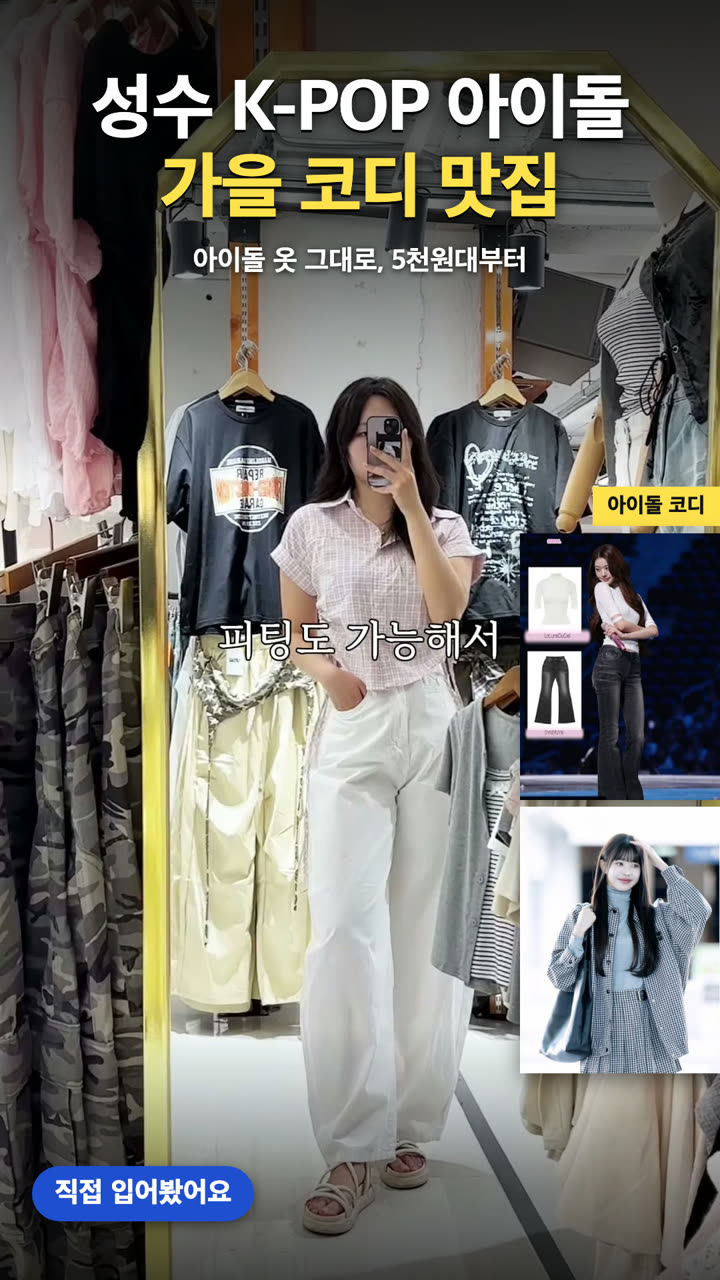
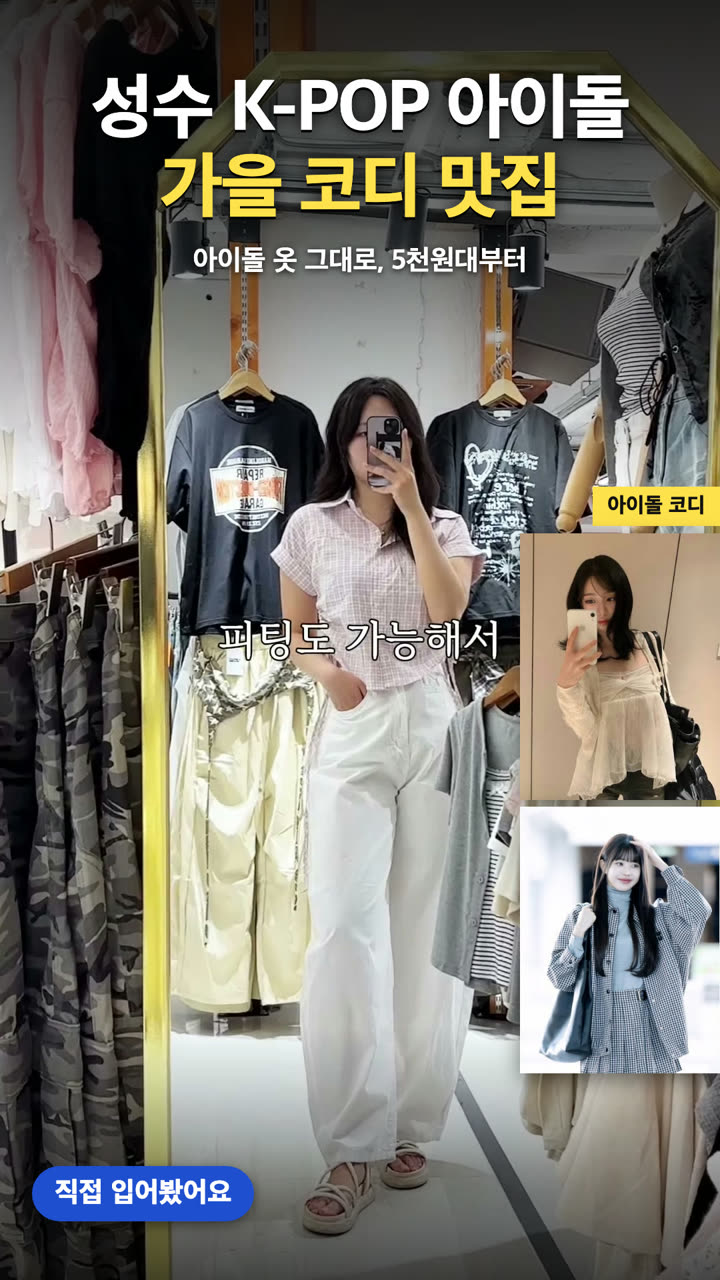
엠플레이그라운드 가이드: FW 썸네일 연예인 카드를 레이스 톱 거울 셀카로 교체

Changed region(s): [[0.7028, 0.4062, 1.0, 0.625]]

diff --git a/mplayground-guide/index.html b/mplayground-guide/index.html
@@ -202,8 +202,8 @@ li{margin-bottom:6px}
   <div class="thumbs">
     <figure class="vb"><img src="thumbs/thumb_1.jpg" alt="썸네일 예시 1" loading="lazy"><figcaption>1 · 메인 본인 착샷 + 연예인 사진</figcaption></figure>
     <figure class="vb"><img src="thumbs/thumb_2.jpg" alt="썸네일 예시 2" loading="lazy"><figcaption>2 · 메인 마네킹 코디 + 연예인 사진</figcaption></figure>
-    <figure class="vf"><img src="thumbs/thumb_1_fw.jpg" alt="FW 썸네일 예시 1" loading="lazy"><figcaption>1 · 메인 본인 착샷 + 연예인 사진 (예시 1·2)</figcaption></figure>
-    <figure class="vf"><img src="thumbs/thumb_2_fw.jpg" alt="FW 썸네일 예시 2" loading="lazy"><figcaption>2 · 메인 마네킹 코디 + 연예인 사진 (예시 1·2)</figcaption></figure>
+    <figure class="vf"><img src="thumbs/thumb_1_fw.jpg" alt="FW 썸네일 예시 1" loading="lazy"><figcaption>1 · 메인 본인 착샷 + 연예인 사진 (예시 1·4)</figcaption></figure>
+    <figure class="vf"><img src="thumbs/thumb_2_fw.jpg" alt="FW 썸네일 예시 2" loading="lazy"><figcaption>2 · 메인 마네킹 코디 + 연예인 사진 (예시 1·4)</figcaption></figure>
   </div>
 </section>
 
